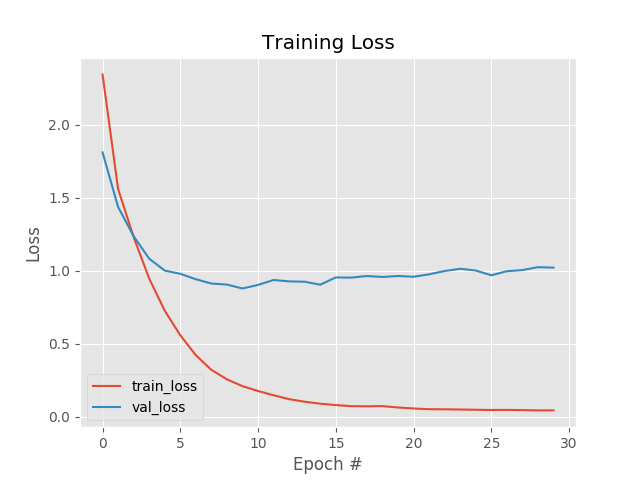
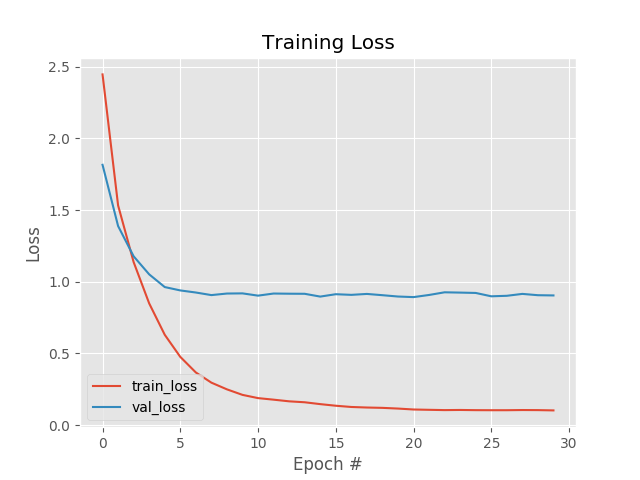
Updated attention layer to allow for masking

diff --git a/layers/attention.py b/layers/attention.py
@@ -32,10 +32,11 @@ class AttentionLayer(Layer):
 
         super(AttentionLayer, self).build(input_shape)  # Be sure to call this at the end
 
-    def call(self, inputs, verbose=False):
+    def call(self, inputs, mask=None, verbose=False):
         """
         inputs: [encoder_output_sequence, decoder_output_sequence]
         """
+
         assert type(inputs) == list
         encoder_out_seq, decoder_out_seq = inputs
         if verbose:
@@ -109,6 +110,9 @@ class AttentionLayer(Layer):
 
         """ Computing energy outputs """
         # e_outputs => (batch_size, de_seq_len, en_seq_len)
+        # We can also pass mask input arg from above into the K.rnn function below
+        # ie K.rnn(..., mask=mask, ...)
+        # Degrades the overall accuracy so not recommended...
         last_out, e_outputs, _ = K.rnn(
             energy_step, decoder_out_seq, [fake_state_e],
         )
@@ -119,6 +123,12 @@ class AttentionLayer(Layer):
         )
 
         return c_outputs, e_outputs
+
+    # To allow for layers that support masking to pass its masks
+    # to this layer e.g. word embedding layers.
+    # We're ignoring the mask in this layer and passing it downstream...
+    def compute_mask(self, inputs, mask):
+        return None
 
     def compute_output_shape(self, input_shape):
         """ Outputs produced by the layer """

diff --git a/model_attention.py b/model_attention.py
@@ -14,7 +14,7 @@ def attention_model(src_vocab, target_vocab, src_timesteps, target_timesteps, un
 
   decoder_inputs = Input(shape=(target_timesteps - 1, target_vocab), name='decoder_inputs')
 
-  embedding = Embedding(src_vocab, units, input_length=src_timesteps, name='enc_embedding')
+  embedding = Embedding(src_vocab, units, input_length=src_timesteps, name='enc_embedding', mask_zero=True)
 
   encoder_lstm = Bidirectional(LSTM(units, return_sequences=True, return_state=True, name='encoder_lstm'), name='bidirectional_encoder')
 

diff --git a/README.md b/README.md
@@ -142,7 +142,28 @@ BLEU-4: 0.2440
 
 Compared to the BLEU scores for the baseline model, it can be seen that adding an attention mechanism has increased the BLEU-1 to BLEU-4 scores.
 
-## 5.2 Adding beam search
+## 5.2 Refining the attention layer
+
+The attention mechanism is implemented as a custom Keras layer which does not support masking, which can be turned on in the word Embedding layer. 
+
+By setting `mask_zero=True` in the Embedding layer, we are informing the model that some of the values are padding and should be ignored.
+
+I implemented the `compute_mask` function in the attention layer to return `None` so as to pass the mask down to further layers. 
+
+The validation loss dropped to `0.89285` after training for 30 epochs with a batch size of 64.
+
+The loss curves also indicate that the validation loss has reduced to below 1.0 level across all epochs although the gap between the loss and validation loss is still high, indicating overfitting.
+
+Running model evaluation after the changes show an increase in the BLEU scores compared to 5.1 above:
+
+```
+BLEU-1: 0.6249
+BLEU-2: 0.5145
+BLEU-3: 0.4552
+BLEU-4: 0.3046
+```
+
+## 5.3 Adding beam search
 
 Each word from a translation is calculated by taking the maximum probability value from the matrix of probability values generated by the final FC Layer in the model, which returns a softmax distribution of each word in the target vocabulary. 
 
@@ -158,20 +179,19 @@ Below are the BLEU scores for using beam search...
 
 | Beam Width    | BLEU-1 | BLEU-2 | BLEU-3 | BLEU-4 |
 | ------------- | -------| -------| -------| -------|
-|	1							| 0.5369 | 0.4199 | 0.3551 | 0.1759 |
+|	1							| 0.5871 | 0.4668 | 0.3995 | 0.2306 |
 |	2							| 0.2792 | 0.0511	| 0.0149 | 0.0000	|
 |	3							| 0.1190 | 0.0125	| 0.0000 | 0.0000	|  
 
 The results indicate that with Beam Search, the overall BLEU scores decrease.
 
-This could be an issue with the actual implementation of beam search algo itself or an issue with the model during prediction.
+This could be an issue with the actual implementation of beam search algo itself or an issue with the model architecture.
 
 More analysis would be required to debug the true issue and will be reviisted at a later stage.
 
+## 5.4 Regularization
 
-## 5.3 Regularization
-
-Redevelop the attention layer to be independent of TF
+Redevelop the attention layer to be independent of TF in order to use dropout?
 
 [ TO BE DONE ]
 
